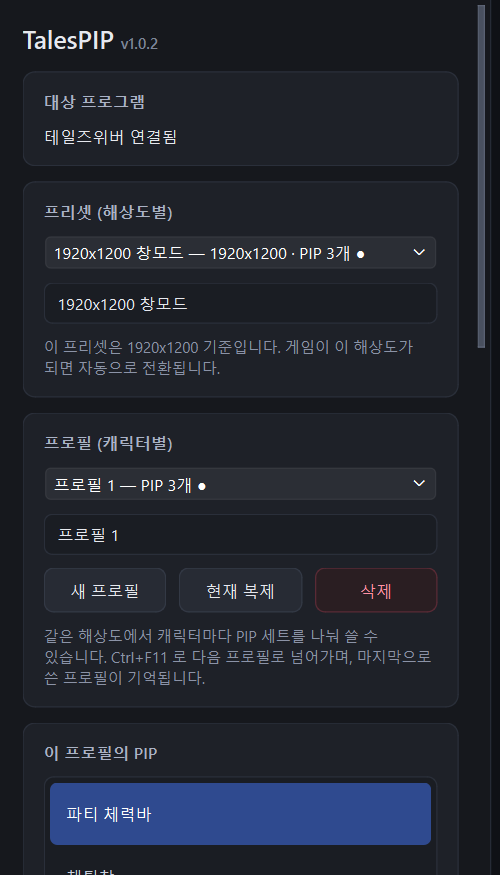
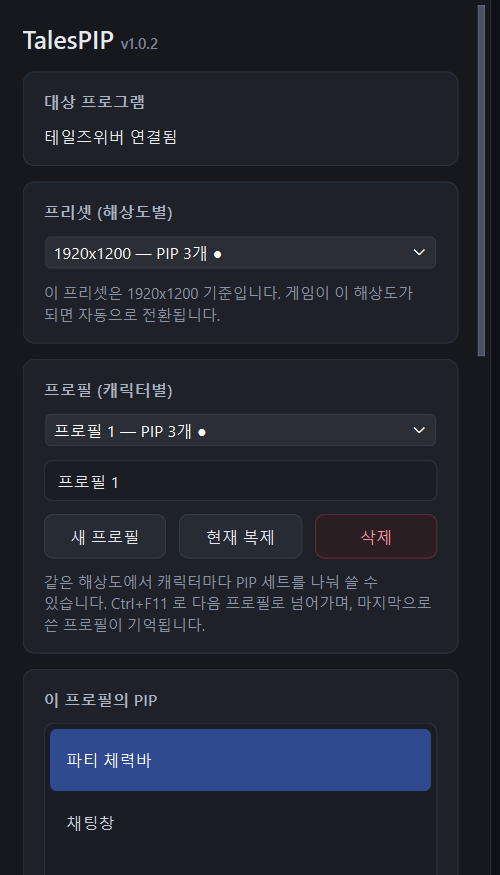
Label presets by their resolution instead of a typed name
A preset is picked automatically from the game's client size, so its
name was only ever a place to retype the resolution shown beside it —
and the tray ignored it anyway. The label is now derived, and the tray
entries follow it, including after an empty preset is stamped with a
resolution.

The name key stays in the config file so older builds still read it.

diff --git a/tales_pip.py b/tales_pip.py
@@ -1448,11 +1448,6 @@ class SettingsDialog(QDialog):
         self.combo_preset.currentIndexChanged.connect(self._on_preset_picked)
         preset_layout.addWidget(self.combo_preset)
 
-        self.edit_preset_name = QLineEdit()
-        self.edit_preset_name.setPlaceholderText("프리셋 이름")
-        self.edit_preset_name.editingFinished.connect(self._commit_preset_name)
-        preset_layout.addWidget(self.edit_preset_name)
-
         self.lbl_preset_res = QLabel("-")
         self.lbl_preset_res.setObjectName("Caption")
         self.lbl_preset_res.setWordWrap(True)
@@ -1816,20 +1811,13 @@ class SettingsDialog(QDialog):
 
     def _preset_caption(self, preset):
         name = self.controller.preset_name(preset)
-        width, height = self.controller.preset_resolution(preset)
         count = len(self.controller.regions_in_preset(preset))
-        res = f"{width}x{height}" if width and height else "해상도 미지정"
         mark = " ●" if preset == self.controller.active_preset else ""
-        return f"{name} — {res} · PIP {count}개{mark}"
+        return f"{name} — PIP {count}개{mark}"
 
     def _load_preset_fields(self):
         preset = self.viewing_preset
         width, height = self.controller.preset_resolution(preset)
-        self._loading += 1
-        try:
-            self.edit_preset_name.setText(self.controller.preset_name(preset))
-        finally:
-            self._loading -= 1
         if width and height:
             self.lbl_preset_res.setText(
                 f"이 프리셋은 {width}x{height} 기준입니다. "
@@ -2191,19 +2179,6 @@ class SettingsDialog(QDialog):
             self._reload_profile_combo()
             self.reload_region_list()
 
-    def _commit_preset_name(self):
-        if self._loading:
-            return
-        name = self.edit_preset_name.text().strip()
-        entry = self.controller.config["presets"][str(self.viewing_preset)]
-        if not name:
-            self.edit_preset_name.setText(entry["name"])
-            return
-        if name != entry["name"]:
-            entry["name"] = name
-            save_config(self.controller.config)
-            self.refresh()
-
     def _hotkey_editor(self, key):
         return (self.profile_hotkey_edit if key == "profile_hotkey"
                 else self.hotkey_edit)
@@ -2426,7 +2401,7 @@ class PipController(QObject):
 
         self.preset_actions = {}
         for preset in range(1, PRESET_COUNT + 1):
-            action = QAction(f"프리셋 {preset}", menu)
+            action = QAction(self.preset_name(preset), menu)
             action.setCheckable(True)
             action.triggered.connect(
                 lambda _=False, p=preset: self.activate_preset(p, from_auto=True))
@@ -2587,7 +2562,12 @@ class PipController(QObject):
         self.update_tray_tooltip()
 
     def preset_name(self, preset):
-        return self.config["presets"][str(preset)]["name"]
+        """Derived, never typed: the resolution is what tells presets apart,
+        so a name field would only ask the user to repeat it."""
+        width, height = self.preset_resolution(preset)
+        if width and height:
+            return f"{width}x{height}"
+        return f"프리셋 {preset}"
 
     def preset_resolution(self, preset):
         entry = self.config["presets"][str(preset)]
@@ -2598,6 +2578,7 @@ class PipController(QObject):
         if (entry["width"], entry["height"]) != (width, height):
             entry["width"], entry["height"] = width, height
             save_config(self.config)
+            self.update_tray_tooltip()
 
     def preset_for_resolution(self, width, height):
         for i in range(1, PRESET_COUNT + 1):
@@ -2615,7 +2596,7 @@ class PipController(QObject):
                 self.activate_preset(preset, from_auto=True)
                 self.notify(
                     "TalesPIP",
-                    f"해상도 {width}x{height} 에 맞춰 {self.preset_name(preset)} 로 전환했습니다.",
+                    f"해상도 {width}x{height} 프리셋으로 전환했습니다.",
                     QSystemTrayIcon.MessageIcon.Information, 3000)
             return
 
@@ -2628,8 +2609,8 @@ class PipController(QObject):
         self.activate_preset(empty, from_auto=True)
         self.notify(
             "TalesPIP",
-            f"새 해상도 {width}x{height} 입니다. 비어 있는 {self.preset_name(empty)} "
-            "로 전환했습니다. 영역을 추가하세요.",
+            f"새 해상도 {width}x{height} 입니다. 비어 있던 프리셋 {empty} "
+            "을(를) 이 해상도에 배정했습니다. 영역을 추가하세요.",
             QSystemTrayIcon.MessageIcon.Information, 4000)
 
     def first_empty_preset(self):
@@ -2996,6 +2977,7 @@ class PipController(QObject):
 
     def update_tray_tooltip(self):
         for preset, action in getattr(self, "preset_actions", {}).items():
+            action.setText(self.preset_name(preset))
             action.setChecked(preset == self.active_preset)
         self.rebuild_profile_menu()
         if hasattr(self, "act_hide"):
